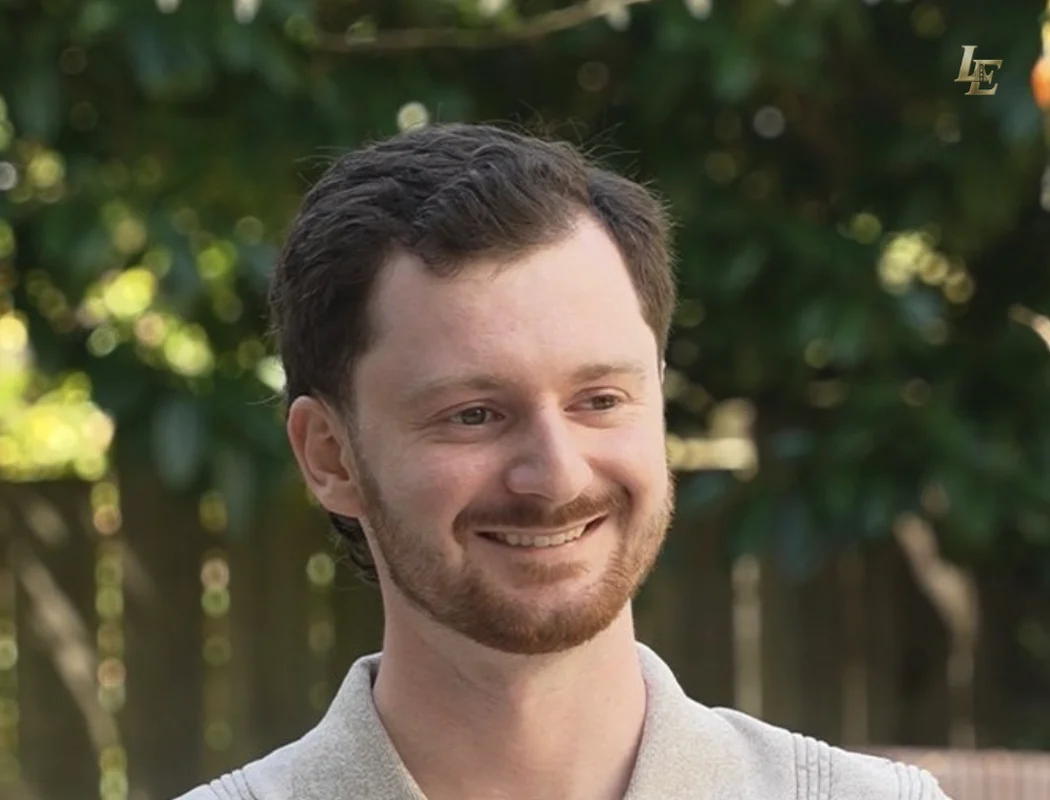
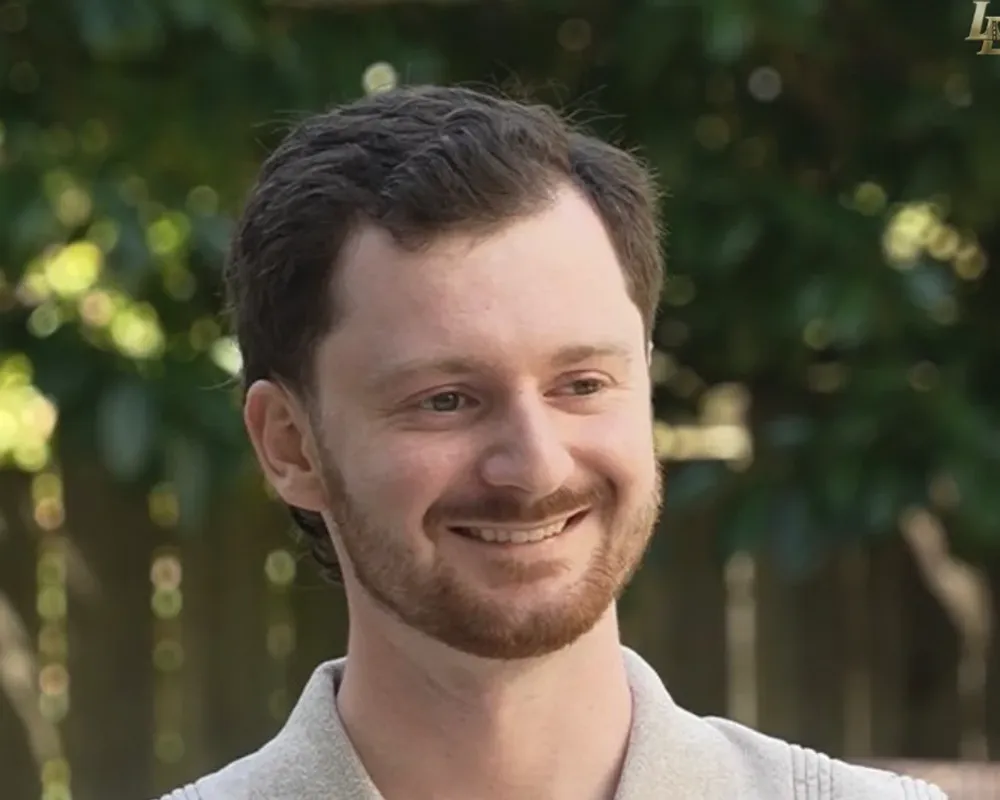
Remove Mateen from team roster & raise Will's portrait framing

diff --git a/tests/components/team-section.behavior.test.tsx b/tests/components/team-section.behavior.test.tsx
@@ -49,7 +49,6 @@ describe("Team — LA / SF / Exec filter boxes", () => {
     expect(names.some((n) => n.includes("Will Lupfer"))).toBe(true)
     expect(names.some((n) => n.includes("Zac"))).toBe(true)
     expect(names.some((n) => n.includes("Kylie"))).toBe(true)
-    expect(names.some((n) => n.includes("Mateen"))).toBe(true)
     expect(names.some((n) => n.includes("Cianna"))).toBe(true)
   })
 
@@ -73,7 +72,7 @@ describe("Team — LA / SF / Exec filter boxes", () => {
     expect(names[0]).toContain("Will Lupfer")
   })
 
-  it("LA shows Zac, Kylie, and Cianna (no Will, no Mateen)", async () => {
+  it("LA shows Zac, Kylie, and Cianna (no Will)", async () => {
     const user = userEvent.setup()
     render(<Team />)
     await user.click(screen.getByRole("button", { name: "Show LA team" }))
@@ -82,15 +81,13 @@ describe("Team — LA / SF / Exec filter boxes", () => {
     expect(names.some((n) => n.includes("Kylie"))).toBe(true)
     expect(names.some((n) => n.includes("Cianna"))).toBe(true)
     expect(names.some((n) => n.includes("Will"))).toBe(false)
-    expect(names.some((n) => n.includes("Mateen"))).toBe(false)
   })
 
-  it("SF shows Mateen and Cianna", async () => {
+  it("SF shows Cianna", async () => {
     const user = userEvent.setup()
     render(<Team />)
     await user.click(screen.getByRole("button", { name: "Show SF team" }))
     const names = visibleNames()
-    expect(names.some((n) => n.includes("Mateen"))).toBe(true)
     expect(names.some((n) => n.includes("Cianna"))).toBe(true)
     expect(names.some((n) => n.includes("Will"))).toBe(false)
     expect(names.some((n) => n.includes("Zac"))).toBe(false)
@@ -135,7 +132,6 @@ describe("Team — LA / SF / Exec filter boxes", () => {
     const user = userEvent.setup()
     render(<Team />)
     await user.click(screen.getByRole("button", { name: "Show SF team" }))
-    expect(screen.getByAltText(/Mateen/)).toBeInTheDocument()
     expect(screen.getByAltText(/Cianna/)).toBeInTheDocument()
     expect(screen.queryByText("Portrait coming soon")).toBeNull()
   })

diff --git a/tests/unit/data-lists.test.ts b/tests/unit/data-lists.test.ts
@@ -54,6 +54,6 @@ describe("team list", () => {
     const exec = team.filter((m) => m.teams.includes("Exec"))
     expect(exec.map((m) => m.name)).toEqual(["Will Lupfer"])
     expect(team.filter((m) => m.teams.includes("LA")).length).toBeGreaterThanOrEqual(3)
-    expect(team.filter((m) => m.teams.includes("SF")).length).toBeGreaterThanOrEqual(2)
+    expect(team.filter((m) => m.teams.includes("SF")).length).toBeGreaterThanOrEqual(1)
   })
 })

diff --git a/docs/DESIGN.md b/docs/DESIGN.md
@@ -37,7 +37,7 @@
 - **Brands:** From `data/brands.yml` → `lib/data/brands.ts` (`getBrands()`); renders in `components/brands.tsx` as its own eager home section (`#brands`, `Brands` in the nav, mounted directly under Partners and before Events — matches the comp's `#subbrands` placement). The home header includes a gold **View all brands →** link to `/brands` (owner request 2026-07-21). The five-card portfolio (SEA//SIDE, HIGH//RISE, SOUND//CHECK, IN//SIDE, OUT//SIDE) was explicitly deferred in phase 2 ("a 'Brands' section — doesn't exist on the live site") and ships here as phase 6. Cards use the standard `rounded-sm sm:rounded-md border border-border hover:border-accent/50` shell (no tilt — informational cards, not carousel content) with a small top-left/bottom-right corner-bracket accent from the comp; the title uses **`BrandSlashText`** (e.g. "SEA//SIDE") set in **`font-condensed`** (Barlow Condensed) — the first live use of that reserved font. Each card's **`accent`** hex (YAML) is scoped only to its tag pill border/text, corner accents, and the title's skewed "//" divider (`BrandSlashText`'s optional `color` prop overrides the gold default here only — phase 33, owner request 2026-07-17; the comp colors each brand card's "//" with that brand's accent) — not card chrome, which stays on the shared gold `--accent` like every other card. Only SEA//SIDE has a live destination (`externalUrl: https://seaside.la`, opens in a new tab). **Reference geometry (owner audit 2026-07-17):** the grid uses the comp's 20px phone / 32px desktop gutters; cards use 20px phone padding and a 460px phone minimum height, then 28px vertical / 24px horizontal padding and a 340px desktop minimum height, reproducing the comp's computed 338px desktop row instead of the former stretched 420px row. **Photography (phases 24/30, owner redesign 2026-07-17):** each card gets a full-bleed background photo (`image` in `data/brands.yml`, ported from the comp's `assets/brands/*-bg.jpg`, WebP-optimized through the standard pipeline — `brands` added to `optimize-public-raster.mjs`'s `CARD_DIRS`). The image renders at the comp's exact desktop teaser opacity (`0.16`) over `bg-card`, with no additional dark gradient scrim, giving the requested faded/washed treatment while foreground text keeps theme-native contrast. `tests/unit/data-integrity.test.ts` asserts the image paths resolve; `tests/unit/look-and-feel.test.ts` locks the fade treatment and responsive geometry. **Per-brand detail pages (owner request 2026-07-17):** every brand card's wordmark now links to a dedicated page at **`/brands/<key>`** (`brandPath()` in `lib/data/brands.ts`; `key` is the YAML slug, e.g. `seaside`), and each card gains a "Learn more →" text link alongside the existing external-link row; both resolve through `getBrandBySlug()`. The overview index at **`/brands`** (`app/brands/page.tsx`) ports the comp's five alternating `lp-brand-row` blocks: an accent-tinted photo panel (brand `image`, tag pill, condensed-uppercase wordmark via `BrandSlashText` in the brand's `accent`, format line, external-link row) opposite a description column that renders either a 3-up gallery preview (seaside's optional `gallery` list — 6 site-root WebP paths, `/brands/seaside-gallery-{1..6}.webp`), a centered "Coming soon" block for `comingSoon` brands (highrise, soundcheck), or two-column **Upcoming** / **Past highlights** event lists filtered by `event.brandTag === brand.title` (via `lib/events.ts`'s existing `getUpcomingEvents`/`getPastEvents`), with the comp's "No upcoming events yet." / "No past highlights yet." empty states. `app/brands/[slug]/page.tsx` (statically generated from `getBrands()`, `dynamicParams` off → unknown slugs 404) mirrors the `/services/[slug]` detail-page pattern: tag-pill kicker, condensed-uppercase `h1` (`BrandSlashText` in the brand's accent, not gold), hero photo panel, description, the same gallery/coming-soon/event-list content as the overview row, a gold pill **"Book This Brand"** CTA to `/contact`, a circular prev/next brand nav, and an "All Brands" back link. Brand routes are added to `app/sitemap.ts` and the asset-crawl route builder. `tests/unit/brand-routes.test.ts` and the extended `tests/components/brands.behavior.test.tsx` lock the route/link contract. **Polish (corporate polish pass, 2026-07-17):** home brand cards add a subtle framer `whileHover` lift (`y: -5`) plus a hover depth shadow — still explicitly **no tilt** (informational cards); `/brands` overview rows and the brand detail grid rise in once via `ScrollReveal`, and the detail description uses `TextReveal`. **VIEW DECK (owner zip July 24, shipped 2026-07-27):** brands may carry an optional ordered `deck` list in `data/brands.yml` (site-root WebP under `public/brands/`), surfaced by `components/brand-deck.tsx` as a mono "View deck" pill that opens the slides in the shared `ui/dialog` — `object-contain` slide frame, circular prev/next chevrons matching the gallery-lightbox control language, `ArrowLeft`/`ArrowRight` keys plus Escape, an `aria-live` "N / M" counter, and a reset to slide 1 on each open. **HIGH//RISE** carries the 7-slide corporate deck; the parent **LUPFR** portfolio deck (5 slides, "one brand, five worlds") is not a sub-brand so it lives as `LUPFR_DECK` in `lib/data/brands.ts` and mounts on the `/brands` index under the page title. Slides are static WebP (no PDF, no new dependency). The zip's `highrise/banner.png` + `mark.png` are not deck slides and are intentionally not shipped — the brand card art (`/brands/highrise.webp`) already covers that surface. Locked by `tests/unit/brand-deck.test.ts`.
 - **Services:** From `data/services.yml`. Display as defined in YAML (e.g. titles, descriptions, icons). Every home service card is a keyboard-accessible link to its dedicated service page (**`/services/<service-slug>`**, `servicePath()` in `lib/data/services.ts`). The home header links **Explore all services →** to `/services` (owner redesign 2026-07-22, ported from Will's home-services screenshot — was "View all services →" 2026-07-21; the section kicker/`GoldShineText` "Our Services" heading and the lead sentence under the CTA are unchanged). **Home card slimming (owner redesign 2026-07-22, screenshot parity):** each home card drops the icon chip and the dash-led feature-bullet list — those stay on the `/services` overview + `/services/<slug>` detail pages, which are untouched — and instead ends with a gold **"Learn more →"** text link (styled `span`/`m.span`, not a nested `<a>`, since the whole card is already one big link to its service page); numeral, photo header, title, description, and the desktop tilt/hover motion (mobile keeps the plain static body) are unchanged. The overview page follows the supplied restructure comp: one shared page, alternating two-column 4:3 photography and text rows, `SERVICE 01`–`06` mono labels, condensed uppercase titles, descriptions, and dash-led feature lists; phones collapse each row to image then copy. **Corporate numeral (phase 10, owner redesign 2026-07-16, ported from the comp):** each home card renders a large, faint `01`–`06` numeral (`serviceNumeral(index)` in `components/services.tsx`, `font-condensed font-extrabold text-7xl text-border/80`) behind the top-right of the card, z-order'd below the title/description; purely decorative, does not touch tilt springs or the card's title/description/"Learn more" structure. **Thumbnail photography (phase 17, owner redesign 2026-07-16, ported from the comp's `assets/services/*`):** `data/services.yml` carries an optional `image` field (`/services/<slug>.webp`, standardized through the public-raster WebP pipeline), matched 1:1 by position to the comp's six services; `ServiceCardStaticBody`/`ServiceCardMotionBody` render it as a `h-[180px] sm:h-[220px]` full-bleed photo header above the padded content. `tests/unit/data-integrity.test.ts` asserts every `service.image` resolves to a real file; `tests/unit/service-routes.test.ts` locks the anchored URL contract. **Restructure copy + related-brand pills (owner restructure 2026-07-17, ported from the comp's services page):** all six descriptions follow the comp's updated copy, the third service is renamed **"Venue Programming" → "Event Programming"** (anchor becomes `/services#event-programming`; the thumbnail keeps the `venue-programming.webp` filename, matching the comp's own asset naming), and `data/services.yml` carries an optional **`relatedBrands`** list of brand keys resolved against `data/brands.yml` at build time (`lib/data/services.ts` throws on unknown keys); `/services` rows render them after the feature list as bordered uppercase mono pills in the brand's accent (border/text/dot, `BrandSlashText` divider) — the comp's per-service related-brand chips. Home Services cards do not render the pills. **Per-service detail pages (owner request 2026-07-17):** every service also gets its own clickable page at **`/services/<service-slug>`** (`app/services/[slug]/page.tsx`, statically generated from `data/services.yml`, `dynamicParams` off → unknown slugs 404). Each detail page reuses the overview row's design language — `What We Do — Service NN` kicker, `GoldShineText` condensed-uppercase `h1`, the 4:3 photo with faint numeral overlay, description, dash-led feature list, and related-brand pills — and adds a gold pill **"Book This Service"** CTA to `/contact` plus a bottom prev/next service nav and an "All Services" back link. `/services` overview rows stay anchored (`#<service-slug>`) but are now clickable through both the row title and a gold "Learn more →" link (the comp teaser's link treatment). **Detail-page polish (corporate polish pass, 2026-07-17):** each service detail page renders the service's own Lucide `service.icon` as a bordered `bg-secondary` chip beside the kicker (the icon was previously dropped on detail routes), the two-column grid enters via `ScrollReveal`, and the description uses the per-word `TextReveal`; the dash-led feature list keeps its documented dash treatment.
 - **Partners:** From `data/partners.yml`; the corporate row renders in **`components/partners-strip.tsx`** via `getPartners()` as a slim strip **directly under the hero** (with the small centered mono-uppercase gold **“Corporate Partners”** `.lupfr-section-kicker` eyebrow, `leading-none` — restored by owner request 2026-07-17, superseding the 2026-07-11 removal; the section also keeps `aria-label="Corporate partners"`; it previously lived at the bottom of `components/services.tsx`). Logos render in a **single-row auto-scrolling marquee**, and the logo row is **full-bleed** — it escapes the section's `max-w-7xl` container and runs edge-to-edge across the viewport on desktop and mobile (owner request 2026-07-08); the row fades up on scroll via `ScrollReveal`, and the section has no background of its own (inherits the page — owner request 2026-07-11) (`.partner-marquee` in `app/globals.css`: the logo row is duplicated once, animated `translateX 0 → -50%` over 50s linear infinite for a seamless loop, with edge fade masks; pauses on `:hover`/`:focus-within` so logos stay clickable; the duplicate copy is `aria-hidden` + `inert`; `prefers-reduced-motion` disables the animation and falls back to a static `overflow-x: auto` row). The marquee is **grab-to-spin** (owner request 2026-07-17): after hydration, `useMarqueeSpin` in `partners-strip.tsx` sets `data-spin` on the track, disables the CSS keyframe (which stays as the no-JS fallback), and drives the same 50s/half-loop auto-advance from a rAF loop seeded from the keyframe's current transform, so users can grab the row with pointer or touch (`cursor: grab`/`grabbing`; `touch-action: pan-y` keeps vertical page scroll) and fling it with momentum (exponential friction decays back into auto-scroll); the hover/focus-within pause is replicated in JS with the pause listeners on the **static partners `<section>`** — never on the translating track itself, where Chromium hit-tests the composited layer moving under a stationary cursor against stale geometry and fires a spurious `mouseleave` (~400ms after enter) that un-pauses the row mid-hover so clicks miss the sliding logo (2026-07-25 fix) — a drag past a 12px threshold (`DRAG_CLICK_THRESHOLD_PX`) suppresses the next click in the capture phase so a fling never accidentally opens a partner site (plain clicks still navigate), and reduced-motion users never activate the engine; the whole interaction contract is locked by the Playwright `verify-partners-marquee` gate (see `docs/TESTING.md`). **Every primary logo is an external link** whose HTTPS destination comes from the row's `url`. **Label-only pending marks (comp parity):** a row may omit `image` (and `url`) while its logo asset is pending — the strip then renders the partner **name** as freeform mono uppercase text (`.partner-logo-label`), unlinked until a destination exists (currently **Maison Noir**). **Freeform logo strip (owner request 2026-07-23):** marks sit directly on the page background — **no** bordered/card tiles, shadows, or fixed-width rectangles (supersedes the 2026-07-21 rectangular chips). Section is marked `data-partners-chrome="freeform"`; Playwright `verify-will-home` + RTL/look-and-feel assert zero `.partner-logo-chip` and transparent/borderless `.partner-logo-shell` computed chrome. Each logo is height-capped (`.partner-logo-mark`, ~`h-7`→`md:h-9`) with natural width/`object-contain`, muted at ~70% opacity until hover/focus, with generous horizontal gaps for a sleek corporate marquee. Roster includes Partiful + FredEx Entertainment; Venn Social and Soundcheck were removed (Soundcheck lives under Brands). Mono marks use `.partner-logo`: **light** ≈ black ink; **dark** ≈ softened white via `invert` + `brightness(0.93–0.94)` with opacities from `--partner-logo-opacity*`. Optional YAML `imageClassName` (e.g. `scale-[0.9]`) normalizes visual weight — Nazarian Law uses a larger scale so its mark stays legible. Optional `logoTreatment`: `outline`, `solid`, `natural` (full-color). SEA//SIDE uses a transparent `natural` asset.
-- **Team:** From `data/team.yml` → `lib/data/team.ts` (`getTeam()`); renders in `components/team.tsx` as its own home section (`#team`, mounted right after About via a `DeferredHomeSection`, linked from the nav between About and Contact). Below the member row, a **Partiful partnership announcement** band (owner request 2026-07-21) pairs `/images/partiful-announcement.webp` (Partiful P on a dark gold stage — not an event flyer) with short “Backed by Partiful” copy plus links to `LINKS.partiful` and the company LinkedIn. Cards use the shared **`GoldCard`** shell (`components/gold-card.tsx`) — the reusable event-card shape: `rounded-sm sm:rounded-md` (sharper corporate corners, owner redesign 2026-07-16 — was a `rounded-2xl sm:rounded-3xl` squircle; `components/artists.tsx` and `components/services.tsx` card shells match), `bg-card`, `border-border` with gold `accent/50` border + soft `bg-accent/5` gold wash on hover, ±6° tilt springs (pointer devices only, `enableTilt={!isMobile}`), and the staggered rise-in reveal. **Fit-all centered row** (owner request 2026-07-08 — show every member with no manual horizontal scroll and no stranded bottom-right gap): a `flex flex-wrap justify-center items-start` layout where phones stay **2-up** and `sm`+ cards `grow` (capped `max-w-[300px]`) so all five sit in one centered row on desktop (`lg` basis ≈ 20%) and sparse filters (Exec = Will only, SF = 2) center instead of left-stranding; replaces the earlier `lg:grid-cols-4` grid. 5:4 portrait with hover zoom, footer with MapPin location, name, title, and a click/tap **in-place bio** (owner request 2026-07-08): tapping **More** reveals the bio as an `AnimatePresence` overlay that covers the card in the **same footprint** — a `bg-card/95` backdrop-blur panel (`absolute inset-0`, internal `overflow-y-auto` for long bios) with the member's name/title and a **Back** pill — so the bio never grows the card taller than its row (replaces the earlier height-accordion that pushed content below). Works on touch; one card open at a time. **Team filter boxes:** pill buttons **All / LA / SF / Exec** (`aria-pressed`, 44px min height) above the grid filter members by the `teams` list in `data/team.yml` (`TEAM_TAGS` in `lib/data/team.ts`); Exec is Will only, LA is Zac/Kylie/Cianna, SF is Mateen/Cianna. Members without an `image` yet render an initial + “Portrait coming soon” placeholder in the 5:4 frame (all current members have portraits — Cianna's arrived 2026-07-06). The portrait webps in `public/images/team/` are cropped clean 1000×800 photos — the source artwork's gold frame and baked caption are removed at asset-prep time; all text renders as real DOM text. **Corporate polish (phase 12, owner redesign 2026-07-16, ported from the comp):** member name (front card and bio overlay) moves to **`font-condensed`** at `text-xl md:text-2xl` (was plain sans `text-lg md:text-xl`), matching the comp's Barlow Condensed treatment. Filter-chip padding is unchanged — the `min-h-[44px]` touch-target floor already governs the real height, so nudging padding to the comp's literal `9px 18px` would not change anything visible. **Location/role badges (phase 25, owner redesign 2026-07-17, reversing phase 12's "not ported" call on direct owner request):** each card renders a small bordered uppercase mono pill per badge (`member.badges` in `lib/data/team.ts`) below the name/title, matching the comp's proportions — `deriveBadges()` unions the existing `teams` filter array with city codes parsed from the `location` string (`"Los Angeles"` → `LA`, `"San Francisco"` → `SF`), so e.g. Will Lupfer shows `EXEC LA SF` (his `teams` is Exec-only, for filter purposes — Exec stays Will-only — but the comp shows all three location badges on his card) while the underlying filter behavior (Exec = Will only, LA = Zac/Kylie/Cianna, SF = Mateen/Cianna) is untouched. `tests/components/team-section.behavior.test.tsx` updated in the same commit.
+- **Team:** From `data/team.yml` → `lib/data/team.ts` (`getTeam()`); renders in `components/team.tsx` as its own home section (`#team`, mounted right after About via a `DeferredHomeSection`, linked from the nav between About and Contact). Below the member row, a **Partiful partnership announcement** band (owner request 2026-07-21) pairs `/images/partiful-announcement.webp` (Partiful P on a dark gold stage — not an event flyer) with short “Backed by Partiful” copy plus links to `LINKS.partiful` and the company LinkedIn. Cards use the shared **`GoldCard`** shell (`components/gold-card.tsx`) — the reusable event-card shape: `rounded-sm sm:rounded-md` (sharper corporate corners, owner redesign 2026-07-16 — was a `rounded-2xl sm:rounded-3xl` squircle; `components/artists.tsx` and `components/services.tsx` card shells match), `bg-card`, `border-border` with gold `accent/50` border + soft `bg-accent/5` gold wash on hover, ±6° tilt springs (pointer devices only, `enableTilt={!isMobile}`), and the staggered rise-in reveal. **Fit-all centered row** (owner request 2026-07-08 — show every member with no manual horizontal scroll and no stranded bottom-right gap): a `flex flex-wrap justify-center items-start` layout where phones stay **2-up** and `sm`+ cards `grow` (capped `max-w-[300px]`) so all four sit in one centered row on desktop (`lg` basis ≈ 25%) and sparse filters (Exec = Will only, SF = 1) center instead of left-stranding; replaces the earlier `lg:grid-cols-4` grid. 5:4 portrait with hover zoom, footer with MapPin location, name, title, and a click/tap **in-place bio** (owner request 2026-07-08): tapping **More** reveals the bio as an `AnimatePresence` overlay that covers the card in the **same footprint** — a `bg-card/95` backdrop-blur panel (`absolute inset-0`, internal `overflow-y-auto` for long bios) with the member's name/title and a **Back** pill — so the bio never grows the card taller than its row (replaces the earlier height-accordion that pushed content below). Works on touch; one card open at a time. **Team filter boxes:** pill buttons **All / LA / SF / Exec** (`aria-pressed`, 44px min height) above the grid filter members by the `teams` list in `data/team.yml` (`TEAM_TAGS` in `lib/data/team.ts`); Exec is Will only, LA is Zac/Kylie/Cianna, SF is Cianna. Members without an `image` yet render an initial + “Portrait coming soon” placeholder in the 5:4 frame (all current members have portraits — Cianna's arrived 2026-07-06). The portrait webps in `public/images/team/` are cropped clean 1000×800 photos — the source artwork's gold frame and baked caption are removed at asset-prep time; all text renders as real DOM text. **Corporate polish (phase 12, owner redesign 2026-07-16, ported from the comp):** member name (front card and bio overlay) moves to **`font-condensed`** at `text-xl md:text-2xl` (was plain sans `text-lg md:text-xl`), matching the comp's Barlow Condensed treatment. Filter-chip padding is unchanged — the `min-h-[44px]` touch-target floor already governs the real height, so nudging padding to the comp's literal `9px 18px` would not change anything visible. **Location/role badges (phase 25, owner redesign 2026-07-17, reversing phase 12's "not ported" call on direct owner request):** each card renders a small bordered uppercase mono pill per badge (`member.badges` in `lib/data/team.ts`) below the name/title, matching the comp's proportions — `deriveBadges()` unions the existing `teams` filter array with city codes parsed from the `location` string (`"Los Angeles"` → `LA`, `"San Francisco"` → `SF`), so e.g. Will Lupfer shows `EXEC LA SF` (his `teams` is Exec-only, for filter purposes — Exec stays Will-only — but the comp shows all three location badges on his card) while the underlying filter behavior (Exec = Will only, LA = Zac/Kylie/Cianna, SF = Cianna) is untouched. `tests/components/team-section.behavior.test.tsx` updated in the same commit.
 
 **Layout containment.** Every section/nav `container` wrapper carries an explicit width cap — default **`max-w-[1400px]`** (owner redesign 2026-07-16, widened from `max-w-7xl`/1280px to match the comp's own `max-width:1400px` section wrappers; nav, About, Brands, Contact, Events, Footer, Services, Team, and the Artists directory share that centered margin), narrower where intentional (gallery `max-w-6xl`, careers `max-w-5xl`, legal `max-w-2xl`, event detail `max-w-[1300px]` split) — because Tailwind v4's bare `container` only caps at the raw breakpoint (1536px) and would render nearly edge-to-edge on very wide viewports. Home Featured Artists joined that shared 1400px cap in the owner alignment pass 2026-07-17 (its brief phase-31 `max-w-[1760px]` wide-section exception is retired — the comp's `#artists` section sits on the same 1400px/48px grid as every other section). **Section gutters are uniform:** every home section (and the footer) uses `px-4 sm:px-6 lg:px-12`, matching the comp's 48px desktop side padding so all section content edges align horizontally; before this pass About/Artists/Team/Contact/Careers/Footer (and the since-retired Press section) stopped at `sm:px-6` and drifted 24px against Brands/Events/Services at sub-cap viewports. New sections must pair `container mx-auto` with a `max-w-*` cap and the shared gutter so all content shares intentional centered margins. Full-bleed surfaces (hero media, the partners logo marquee) remain the exceptions. **Vertical rhythm is one global token (owner request 2026-07-19 — section gaps were "a little too much", e.g. Brands↔Events):** `--lupfr-section-pad` in `app/globals.css` (`clamp(2.5rem, 1.75rem + 2.5vw, 4rem)`, ~40px phones → 64px desktop) drives every standard home section's block padding via the **`.lupfr-section-pad`** utility (Brands, Events, Services, Team, Contact — replacing the per-section `py-14…xl:py-28` / `lg:py-[120px]` ladders that stacked up to ~232px between neighbors); About and Artists keep their deliberately tight custom `pt-*` and take only the bottom half via `pb-(--lupfr-section-pad)`. Adjust rhythm by changing the token, not per-section classes. Hero, the partners strip, the footer, and non-home pages keep their own spacing.
 

diff --git a/docs/TESTING.md b/docs/TESTING.md
@@ -41,7 +41,7 @@ The retired SEA//SIDE landing (`components/seaside/**`) and generated JSON under
 - `tests/unit/event-gallery.test.ts` – `getGalleryPhotosByDateISO` (photos per event date; empty for unknown/missing dates) and the event detail page rendering the **Event gallery** grid (`GalleryPhotoGrid`) under the description.
 - `tests/unit/reels-list.test.ts` – `data/reels.yml` → `lib/data/reels.ts` contract: at least one reel, non-empty labels, https Instagram URLs, and `LINKS.instagramReels` for the view-all CTA.
 - `tests/unit/data-lists.test.ts` – small YAML list contracts: press rows sorted newest-first with normalized image paths, careers array shape, and the team roster invariants (every member tagged with valid `teams`, Will the only Exec, Cianna Foppoli with her portrait and LA+SF tags).
-- `tests/components/team-section.behavior.test.tsx` – **RTL**: the LA / SF / Exec filter boxes (aria-pressed state, per-filter rosters — Exec → Will only; LA → Zac/Kylie/Cianna; SF → Mateen/Cianna), 2-up phone grid (`grid-cols-2` base), expandable bios, every current member rendering a portrait, and the “Portrait coming soon” placeholder branch kept covered via a mocked imageless fixture member.
+- `tests/components/team-section.behavior.test.tsx` – **RTL**: the LA / SF / Exec filter boxes (aria-pressed state, per-filter rosters — Exec → Will only; LA → Zac/Kylie/Cianna; SF → Cianna), 2-up phone grid (`grid-cols-2` base), expandable bios, every current member rendering a portrait, and the “Portrait coming soon” placeholder branch kept covered via a mocked imageless fixture member.
 - `tests/components/gold-shine-text.behavior.test.tsx` – **RTL**: static vs scroll shine variants, `as` heading tags, and target-ref binding without pre-hydration crashes.
 - `tests/components/brand-slash-text.behavior.test.tsx` – **RTL**: `BrandSlashText` renders plain strings unchanged, wraps every `//` in `.lupfr-brand-slash`, and handles multiple `//` occurrences in one string.
 - `tests/components/gold-card.behavior.test.tsx` – **RTL**: the shared card shell renders children with the squircle classes; tilt handlers are active when enabled and inert when disabled.

diff --git a/docs/CHANGELOG.md b/docs/CHANGELOG.md
@@ -4,6 +4,10 @@ All notable project changes are recorded here.
 
 ## [Unreleased]
 
+### Changed
+
+- **Team roster update:** Removed Mateen Malekinejad from the team configuration (`data/team.yml` and `lib/data/generated/team.json`) and updated corresponding tests and documentation specs.
+
 ### Added
 
 - **VIEW DECK — the HIGH//RISE and LUPFR pitch decks (owner zip, July 24 → shipped 2026-07-27):** the 12 deck slides delivered in `LUPFR WEBSITE updates_july24.zip` were deferred at the time and never revisited — there was no deck surface in the site at all. They now ship as WebP under `public/brands/` (`highrise-deck-1..7`, `lupfr-deck-1..5`) behind a new optional `deck` list on `data/brands.yml` and `LUPFR_DECK` in `lib/data/brands.ts`. `components/brand-deck.tsx` renders a mono "View deck" pill that opens the slides in the shared `ui/dialog`: `object-contain` frame, circular prev/next chevrons, `ArrowLeft`/`ArrowRight` + Escape, an `aria-live` "N / M" counter, and a reset to slide 1 per open. HIGH//RISE's 7-slide corporate deck mounts on `/brands/highrise`; the parent 5-slide LUPFR portfolio deck mounts on the `/brands` index. No new dependency. The zip's `highrise/banner.png` + `mark.png` are not slides and were intentionally skipped (brand card art already covers that). Locked by `tests/unit/brand-deck.test.ts`.
